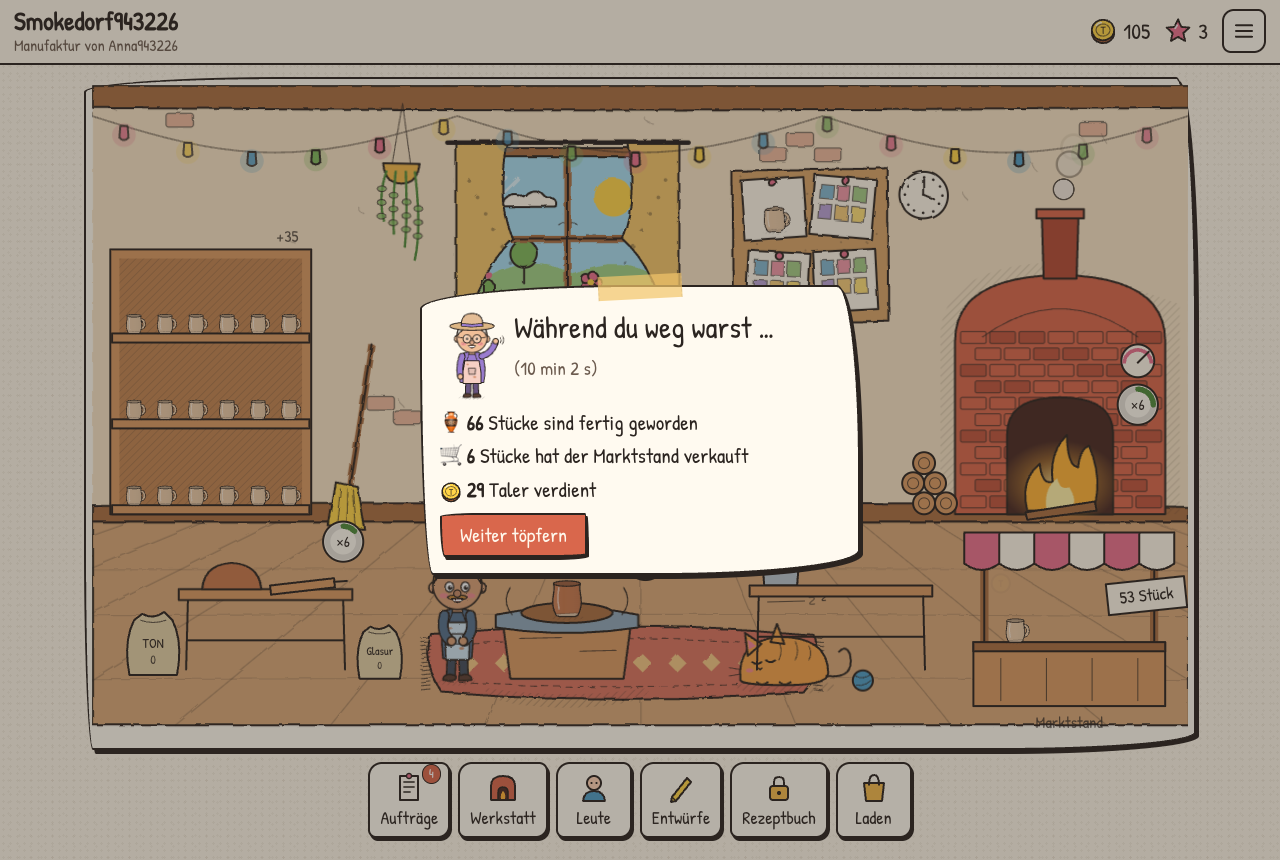
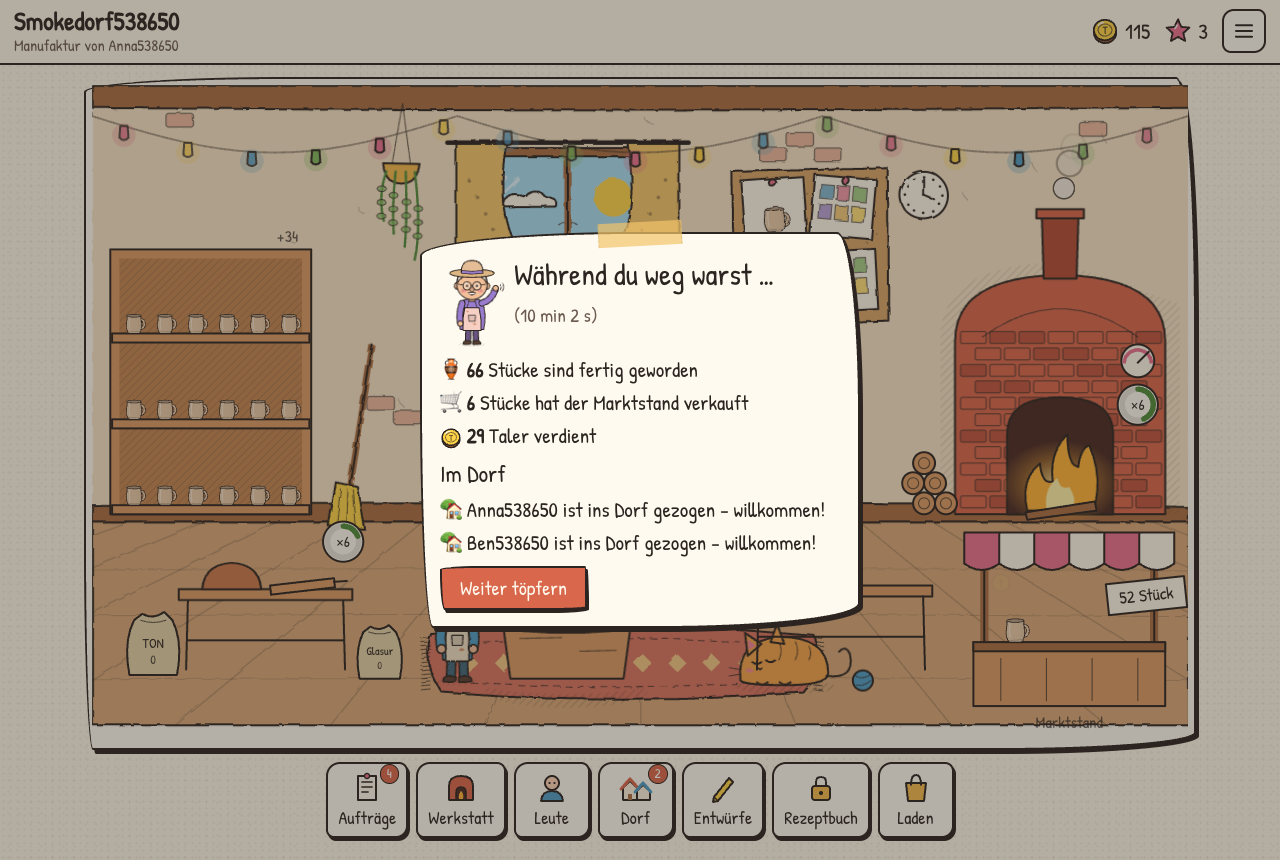
feat: village onboarding, news, starter joint orders, auto-placed decor, e2e

diff --git a/src/shared/village/joint.ts b/src/shared/village/joint.ts
@@ -8,10 +8,19 @@ import { DESIGN_MEMBERS, addNews, vid } from './state';
 import { villageStorePrice } from './specialties';
 import type { Delivery, JointOrder, JointPart, VillageState } from './types';
 
-export interface JointTemplate { id: string; title: string; client: string; parts: JointPart[]; reward: { taler: number; ruf: number; decor: string } }
+export interface JointTemplate { id: string; title: string; client: string; parts: JointPart[]; reward: { taler: number; ruf: number; decor: string }; /** 1 = doable by brand-new players (cups + raw materials) */ tier?: 1 }
 
 /** Base sizes are for a village of ~3; scaled by member count (balanced up to 6). */
 export const JOINT_TEMPLATES: JointTemplate[] = [
+  { id: 'dorffest', title: 'Becher fürs erste Dorffest', client: 'Der Dorfrat', tier: 1,
+    parts: [{ kind: 'goods', form: 'becher', count: 20, minQuality: 1 }, { kind: 'material', material: 'ton', count: 60 }, { kind: 'material', material: 'holz', count: 40 }],
+    reward: { taler: 500, ruf: 35, decor: 'wimpelkette' } },
+  { id: 'feuerwehr', title: 'Kaffeebecher für die Feuerwehr', client: 'Hauptmann Brandt', tier: 1,
+    parts: [{ kind: 'goods', form: 'becher', count: 24, minQuality: 1 }, { kind: 'material', material: 'holz', count: 50 }, { kind: 'material', material: 'eisenoxid', count: 8 }],
+    reward: { taler: 550, ruf: 35, decor: 'laterne' } },
+  { id: 'schule', title: 'Trinkbecher für die Dorfschule', client: 'Lehrer Brösel', tier: 1,
+    parts: [{ kind: 'goods', form: 'becher', count: 18, minQuality: 1 }, { kind: 'material', material: 'ton', count: 80 }, { kind: 'material', material: 'kupferoxid', count: 6 }],
+    reward: { taler: 500, ruf: 30, decor: 'blumenkasten' } },
   { id: 'hochzeit', title: 'Hochzeitsgeschirr für die Müllerstochter', client: 'Familie Mahlzahn',
     parts: [{ kind: 'goods', form: 'teller', count: 18, minQuality: 2, colorFamily: 'blau' }, { kind: 'goods', form: 'becher', count: 18, minQuality: 1 }, { kind: 'material', material: 'kobalt', count: 30 }, { kind: 'material', material: 'holz', count: 60 }],
     reward: { taler: 900, ruf: 60, decor: 'wandteller' } },
@@ -46,9 +55,11 @@ const scale = (members: number) => 0.6 + 0.2 * Math.min(members, DESIGN_MEMBERS)
 
 export function generateJointOrder(v: VillageState, now: number): JointOrder {
   const open = v.jointOrders.map((o) => o.templateId);
-  const choices = JOINT_TEMPLATES.filter((t) => !open.includes(t.id));
+  // the first ones must be doable right after founding: cups and raw materials only
+  const pool = v.completedJoint < COMPLETIONS_PER_BUILDING ? JOINT_TEMPLATES.filter((t) => t.tier === 1) : JOINT_TEMPLATES.filter((t) => !t.tier);
+  const choices = pool.filter((t) => !open.includes(t.id));
   let r = v.rng;
-  let t: JointTemplate; [t, r] = pick(r, choices.length ? choices : JOINT_TEMPLATES);
+  let t: JointTemplate; [t, r] = pick(r, choices.length ? choices : pool);
   let seedV; [seedV, r] = nextRandom(r);
   v.rng = r;
   const f = scale(v.members.length);

diff --git a/src/client/screens/GameScreen.tsx b/src/client/screens/GameScreen.tsx
@@ -2,7 +2,7 @@ import { useState } from 'preact/hooks';
 import { WorkshopScene } from '../art/workshop/WorkshopScene';
 import { api } from '../api';
 import { dispatch, me, now, serverState, view } from '../store';
-import { loadVillage, startVillagePolling, unreadNews } from '../villageStore';
+import { gaveOrHelped, loadVillage, startVillagePolling, unreadNews, village, villageOpened } from '../villageStore';
 import { useEffect } from 'preact/hooks';
 import { T } from '../strings';
 import { Counter } from '../ui/Counter';
@@ -31,7 +31,8 @@ export function GameScreen({ onLogout }: { onLogout: () => void }) {
   const [skipTutorial, setSkipTutorial] = useState(() => { try { return localStorage.getItem('mf_skip_tutorial') === '1'; } catch { return false; } });
   if (!s) return <div class="loading">{T.loading}</div>;
   const pendingMilestone = s.milestonesDone.find((m) => !s.milestonesAcked.includes(m));
-  const step = onboardingStep(s);
+  const ctx = { villageOpened: villageOpened.value, gaveOrHelped: gaveOrHelped.value };
+  const step = onboardingStep(s, ctx);
   const highlight = !skipTutorial && step < ONBOARDING.length && !panel ? ONBOARDING[step].target : undefined;
   const open = (id: PanelId, arg?: string) => setPanel({ id, arg });
   return (
@@ -66,9 +67,9 @@ export function GameScreen({ onLogout }: { onLogout: () => void }) {
       </nav>
       {panel && <PanelHost id={panel.id} arg={panel.arg} onClose={() => setPanel(null)} onOpen={open} />}
       {!skipTutorial && !panel && !awayAtLoad && !pendingMilestone && (
-        <OnboardingCard s={s} onOpen={open} onSkip={() => { try { localStorage.setItem('mf_skip_tutorial', '1'); } catch { /* ignore */ } setSkipTutorial(true); }} />
+        <OnboardingCard s={s} ctx={ctx} onOpen={open} onSkip={() => { try { localStorage.setItem('mf_skip_tutorial', '1'); } catch { /* ignore */ } setSkipTutorial(true); }} />
       )}
-      {awayAtLoad && <AwaySummary away={awayAtLoad} boosted={now.value < s.boostUntil} now={s.lastTick} onClose={() => { setAwayAtLoad(null); if (s.away) dispatch({ type: 'ackAway' }); }} />}
+      {awayAtLoad && <AwaySummary away={awayAtLoad} boosted={now.value < s.boostUntil} now={s.lastTick} news={(village.value?.news ?? []).filter((n) => n.at > awayAtLoad.since && (n.for === null || n.for === me.value?.playerId))} onClose={() => { setAwayAtLoad(null); if (s.away) dispatch({ type: 'ackAway' }); }} />}
       {!awayAtLoad && pendingMilestone && <Celebration milestoneId={pendingMilestone} onClose={() => dispatch({ type: 'ackMilestone', id: pendingMilestone })} />}
       {menu && (
         <Sheet title={T.village} onClose={() => setMenu(false)}>

diff --git a/src/client/panels/Onboarding.tsx b/src/client/panels/Onboarding.tsx
@@ -6,7 +6,8 @@ import type { PanelId } from './PanelHost';
 
 export const GRETA: CharacterLook = { ...makeCharacter(1902), quirk: 'bigHat', eyes: 'glasses', hairStyle: 'bun', hairColor: '#d9d4cc', facial: 'freckles', mouth: 'grin', body: 'round', heightMul: 0.95, outfit: '#9a7ccf' };
 
-type Step = { text: string; done: (s: GameState) => boolean; target?: StationKind; panel?: PanelId; panelArg?: (s: GameState) => string | undefined; button?: string };
+export type OnboardingCtx = { villageOpened: boolean; gaveOrHelped: boolean };
+type Step = { text: string; done: (s: GameState, c: OnboardingCtx) => boolean; target?: StationKind; panel?: PanelId; panelArg?: (s: GameState) => string | undefined; button?: string };
 
 const anyBatchAt = (s: GameState, stages: string[]) => s.batches.some((b) => stages.includes(b.stage));
 
@@ -27,16 +28,20 @@ export const ONBOARDING: Step[] = [
     done: (s) => s.stats.designsSaved > 0 },
   { text: 'Zum Schluss ein Geheimnis: Probier eine eigene Glasur! Brenne eine Probekachel im Studio.', panel: 'studio', panelArg: () => 'glaze', button: 'Glasurversuch',
     done: (s) => s.stats.experiments > 0 },
+  { text: 'Du bist nicht allein! Schau ins Dorf – wer wohnt schon da? (Allein? Dann lade Freunde ein!)', panel: 'village', button: 'Ins Dorf',
+    done: (_s, c) => c.villageOpened },
+  { text: 'Freunde helfen sich: Schenk jemandem etwas oder pack in einer Nachbarwerkstatt mit an.', panel: 'village', panelArg: () => 'gift', button: 'Schenken',
+    done: (s, c) => c.gaveOrHelped || (s.village?.members ?? 1) < 2 },
 ];
 
 /** Index of the first unfinished step (ONBOARDING.length when done). */
-export function onboardingStep(s: GameState): number {
-  const i = ONBOARDING.findIndex((st) => !st.done(s));
+export function onboardingStep(s: GameState, c: OnboardingCtx = { villageOpened: false, gaveOrHelped: false }): number {
+  const i = ONBOARDING.findIndex((st) => !st.done(s, c));
   return i < 0 ? ONBOARDING.length : i;
 }
 
-export function OnboardingCard({ s, onOpen, onSkip }: { s: GameState; onOpen: (id: PanelId, arg?: string) => void; onSkip: () => void }) {
-  const i = onboardingStep(s);
+export function OnboardingCard({ s, ctx, onOpen, onSkip }: { s: GameState; ctx: OnboardingCtx; onOpen: (id: PanelId, arg?: string) => void; onSkip: () => void }) {
+  const i = onboardingStep(s, ctx);
   if (i >= ONBOARDING.length) return null;
   const step = ONBOARDING[i];
   return (

diff --git a/test/client/onboarding.test.tsx b/test/client/onboarding.test.tsx
@@ -14,15 +14,15 @@ describe('onboarding', () => {
     const r = applyAction(s, { type: 'buyMaterial', material: 'ton', amount: 10 }, T0 + 1);
     expect(r.ok && onboardingStep(r.state)).toBe(1);
   });
-  it('has eight steps, all in German', () => {
-    expect(ONBOARDING).toHaveLength(8);
+  it('has ten steps, all in German', () => {
+    expect(ONBOARDING).toHaveLength(10);
     for (const st of ONBOARDING) expect(st.text.length).toBeGreaterThan(15);
   });
   it('is finished once everything has been tried', () => {
     const s = newGame('p', 1, T0);
     Object.assign(s.stats, { made: 6, sold: 1, ordersDone: 1, designsSaved: 1, experiments: 1 });
     s.materials.ton = 40;
-    expect(onboardingStep(s)).toBe(ONBOARDING.length);
+    expect(onboardingStep(s, { villageOpened: true, gaveOrHelped: true })).toBe(ONBOARDING.length);
   });
 });
 
@@ -34,5 +34,27 @@ describe('away summary', () => {
     expect(html).toContain('30');
     expect(html).toContain('123');
     expect(html).toContain('doppeltes Tempo');
+  });
+});
+
+describe('[Plan 2] village onboarding and news', () => {
+  const doneSolo = () => {
+    const s = newGame('p', 1, T0);
+    Object.assign(s.stats, { made: 6, sold: 1, ordersDone: 1, designsSaved: 1, experiments: 1 });
+    s.materials.ton = 40;
+    return s;
+  };
+  it('after the solo steps, opening the village completes step 9 and giving/helping completes step 10', () => {
+    const s = doneSolo();
+    s.village = { villageId: 'v', specialty: 'ton', buildings: [], helpBoostUntil: 0, trickleCarry: 0, members: 2 };
+    expect(ONBOARDING.length).toBe(10);
+    expect(onboardingStep(s, { villageOpened: false, gaveOrHelped: false })).toBe(8);
+    expect(onboardingStep(s, { villageOpened: true, gaveOrHelped: false })).toBe(9);
+    expect(onboardingStep(s, { villageOpened: true, gaveOrHelped: true })).toBe(10);
+  });
+  it('the away summary lists village news for me', () => {
+    const html = render(<AwaySummary away={{ since: T0, made: 1, sold: 1, talerEarned: 1, discoveries: [] }} boosted={false} onClose={() => {}}
+      news={[{ id: 'n1', at: T0 + 5, text: 'Ben hat dir 10 Brennholz geschenkt 🎁', for: 'p1' }]} />);
+    expect(html).toContain('Ben hat dir 10 Brennholz geschenkt');
   });
 });

diff --git a/src/client/panels/AwaySummary.tsx b/src/client/panels/AwaySummary.tsx
@@ -1,4 +1,5 @@
 import type { AwayLog } from '../../shared/types';
+import type { NewsItem } from '../../shared/village/types';
 import { EFFECTS } from '../../shared/content';
 import { Button } from '../ui/Button';
 import { CoinIcon } from '../ui/Counter';
@@ -7,7 +8,7 @@ import { GRETA } from './Onboarding';
 import { Character } from '../art/character/Character';
 import { formatDuration } from './logic';
 
-export function AwaySummary({ away, boosted, onClose, now }: { away: AwayLog; boosted: boolean; onClose: () => void; now?: number }) {
+export function AwaySummary({ away, boosted, onClose, now, news = [] }: { away: AwayLog; boosted: boolean; onClose: () => void; now?: number; news?: NewsItem[] }) {
   return (
     <div class="modal-backdrop">
       <Paper tape seed={31} class="modal-card">
@@ -24,6 +25,7 @@ export function AwaySummary({ away, boosted, onClose, now }: { away: AwayLog; bo
           <li><span class="inline-icon"><CoinIcon /></span> <strong>{Math.round(away.talerEarned)}</strong> Taler verdient</li>
           {away.discoveries.map((d) => <li>✦ Entdeckt: {EFFECTS[d]?.name ?? d}</li>)}
         </ul>
+        {news.length > 0 && <><h3>Im Dorf</h3><ul class="away-list">{news.slice(-6).map((n) => <li>🏡 {n.text}</li>)}</ul></>}
         {boosted && <p class="boost-note">Willkommen zurück – doppeltes Tempo für 30 Minuten!</p>}
         <Button variant="primary" onClick={onClose}>Weiter töpfern</Button>
       </Paper>

diff --git a/src/client/panels/village/VillagePanel.tsx b/src/client/panels/village/VillagePanel.tsx
@@ -8,7 +8,7 @@ import { me, now } from '../../store';
 import { Button } from '../../ui/Button';
 import { Tabs } from '../../ui/Tabs';
 import { toast } from '../../ui/Toast';
-import { loadVillage, markNewsSeen, newsSeenAt, village, villageDispatch } from '../../villageStore';
+import { loadVillage, markNewsSeen, markVillageOpened, newsSeenAt, village, villageDispatch } from '../../villageStore';
 import { inviteLink } from '../../screens/AuthScreen';
 import { NewsList, Guestbook } from './GuestbookPanel';
 import { VisitView } from './VisitView';
@@ -19,7 +19,7 @@ export type VillageTab = 'joint' | 'trade' | 'gift' | 'guestbook' | 'news';
 export function VillagePanel({ tab: initial }: { tab?: string }) {
   const [tab, setTab] = useState<VillageTab>((initial as VillageTab) ?? 'joint');
   const [visit, setVisit] = useState<{ state: GameState; member: Member } | null>(null);
-  useEffect(() => { void loadVillage(); }, []);
+  useEffect(() => { void loadVillage(); markVillageOpened(); }, []);
   useEffect(() => { if (tab === 'news') markNewsSeen(); }, [tab, village.value]);
   const v = village.value, meId = me.value?.playerId ?? '';
   if (!v) return <p class="muted">Das Dorf wird geladen …</p>;

diff --git a/src/client/villageStore.ts b/src/client/villageStore.ts
@@ -24,6 +24,17 @@ export const unreadNews = computed(() => {
   return v.news.filter((n) => n.at > newsSeenAt.value && (n.for === null || n.for === id)).length;
 });
 
+function flag(key: string) {
+  const s = signal(false);
+  try { s.value = localStorage.getItem(key) === '1'; } catch { /* ignore */ }
+  return { s, set: () => { s.value = true; try { localStorage.setItem(key, '1'); } catch { /* ignore */ } } };
+}
+const opened = flag('mf_village_opened');
+const gave = flag('mf_gave_or_helped');
+export const villageOpened = opened.s;
+export const gaveOrHelped = gave.s;
+export const markVillageOpened = opened.set;
+
 export async function loadVillage(): Promise<void> {
   try {
     village.value = (await api.village()).village;
@@ -39,6 +50,7 @@ export async function villageDispatch(a: VillageAction): Promise<string[]> {
       village.value = r.village;
       adoptServerState(r.state, r.serverNow);
       for (const e of r.events) toast(e, 'discovery');
+      if (a.type === 'gift' || a.type === 'help') gave.set();
       return r.events;
     } catch (e) {
       if (e instanceof ApiError && e.status === 409 && attempt === 0) { await loadState(); continue; }

diff --git a/src/shared/village/apply.ts b/src/shared/village/apply.ts
@@ -1,4 +1,5 @@
 import { MATERIALS, own } from '../content';
+import { MAX_DECOR_PLACED } from './decor';
 import { addGoods } from '../market';
 import type { Design, GameState, MakerMark } from '../types';
 import { lendAHand } from './help';
@@ -72,7 +73,11 @@ export function applyDelta(state: GameState, d: WorkshopDelta): GameState {
   if (d.ruf) s.ruf += d.ruf;
   for (const [m, n] of Object.entries(d.materials ?? {})) s.materials[m] = (s.materials[m] ?? 0) + n;
   for (const t of d.goods ?? []) importStack(s, t);
-  for (const id of d.decor ?? []) if (!s.decor.includes(id)) s.decor.push(id);
+  for (const id of d.decor ?? []) {
+    if (s.decor.includes(id)) continue;
+    s.decor.push(id);
+    if (s.decorPlaced.length < MAX_DECOR_PLACED) s.decorPlaced.push(id); // show it off right away
+  }
   if (d.helpBoostUntil !== undefined || d.village) {
     s.village ??= { villageId: d.village?.villageId ?? '', specialty: null, buildings: [], helpBoostUntil: 0, trickleCarry: 0, members: 1 };
     if (d.helpBoostUntil !== undefined) s.village.helpBoostUntil = Math.max(s.village.helpBoostUntil, d.helpBoostUntil);

diff --git a/test/shared/village/joint.test.ts b/test/shared/village/joint.test.ts
@@ -116,3 +116,18 @@ describe('joint orders', () => {
     expect(r.error).toBeTruthy();
   });
 });
+
+describe('first joint orders fit a brand-new village', () => {
+  it('until two are done, joint orders only ask for cups and raw materials', () => {
+    for (let seed = 0; seed < 30; seed++) {
+      let { v } = village(2);
+      v.rng = seed * 7919 + 1;
+      v = ensureJointOrders(v, T0);
+      for (const o of v.jointOrders) for (const p of o.parts) if (p.kind === 'goods') {
+        expect(p.form).toBe('becher');
+        expect(p.colorFamily).toBeUndefined();
+        expect(p.minQuality).toBe(1);
+      }
+    }
+  });
+});

diff --git a/test/shared/village/trade.test.ts b/test/shared/village/trade.test.ts
@@ -112,3 +112,15 @@ describe('trades and gifts', () => {
     expect(totals(v, ws)).toEqual(start);
   });
 });
+
+describe('decor rewards', () => {
+  it('new decor is set up in the workshop automatically while there is room', () => {
+    const { ws } = village(2);
+    let s = applyDelta(ws.p1, { decor: ['laterne'] });
+    expect(s.decorPlaced).toEqual(['laterne']);
+    s = { ...s, decorPlaced: ['a', 'b', 'c', 'd'] };
+    s = applyDelta(s, { decor: ['vogelhaus'] });
+    expect(s.decor).toContain('vogelhaus');
+    expect(s.decorPlaced).not.toContain('vogelhaus');
+  });
+});

diff --git a/README.md b/README.md
@@ -45,6 +45,7 @@ npm test               # Spiellogik + Oberfläche
 npm run test:worker    # API im Workers-Runtime
 npm run check          # TypeScript
 node test/e2e/smoke.mjs http://localhost:5173   # Ende-zu-Ende (Dev-Server mit DEV_FAST=1)
+node test/e2e/village-smoke.mjs http://localhost:5173   # zwei Spieler im Dorf: schenken, tauschen, helfen, Großauftrag
 npm run shot -- "http://localhost:5173/#scene" scene   # Bildschirmfotos nach docs/screens/
 ```
 
@@ -61,6 +62,15 @@ node test/e2e/smoke.mjs https://<deine-url> --no-fast
 Hinweis: Nach langer Abwesenheit rechnet der Server die verpasste Zeit in kleinen Häppchen nach, höchstens 3000 Ereignisse (ein paar Millisekunden) pro Anfrage. Der Browser lädt dabei einfach so lange nach, bis alles aufgeholt ist. So bleibt jede Anfrage unter den CPU-Grenzen des kostenlosen Workers-Plans.
 
 Datenbank-Migrationen nach einem Update: `npx wrangler d1 migrations apply manufaktur --remote`.
+
+## Das Dorf
+
+- Bis zu 10 Leute pro Dorf, ausgelegt auf etwa 6.
+- Jede Person hat eine Spezialität (Tongrube, Eisenerz, Kupfermine, Kobaltader oder Buchenwald). Die eigene ist günstig und wächst von allein nach, fremde Farbkörper und Holz kosten im Laden das Doppelte.
+- Tauschbrett, Geschenke, Wünsche, Mit-anpacken (bis zu 3× am Tag pro Freund) und ein Gästebuch.
+- Großaufträge gehen nur gemeinsam (mindestens zwei Leute). Alle bekommen einen Anteil, auch wer gerade nicht da ist. Material, das niemand hat, gibt es im Dorfladen zum dreifachen Preis.
+- Alle zwei Großaufträge entsteht ein Dorfgebäude: Tongrube, Markthalle, Glasurbibliothek, Gildenhaus.
+- Technisch: ein Durable Object pro Dorf (`VillageDO`), das alle Dorf-Aktionen nacheinander abarbeitet. Die Werkstätten bleiben in D1.
 
 ## Freunde einladen
 
